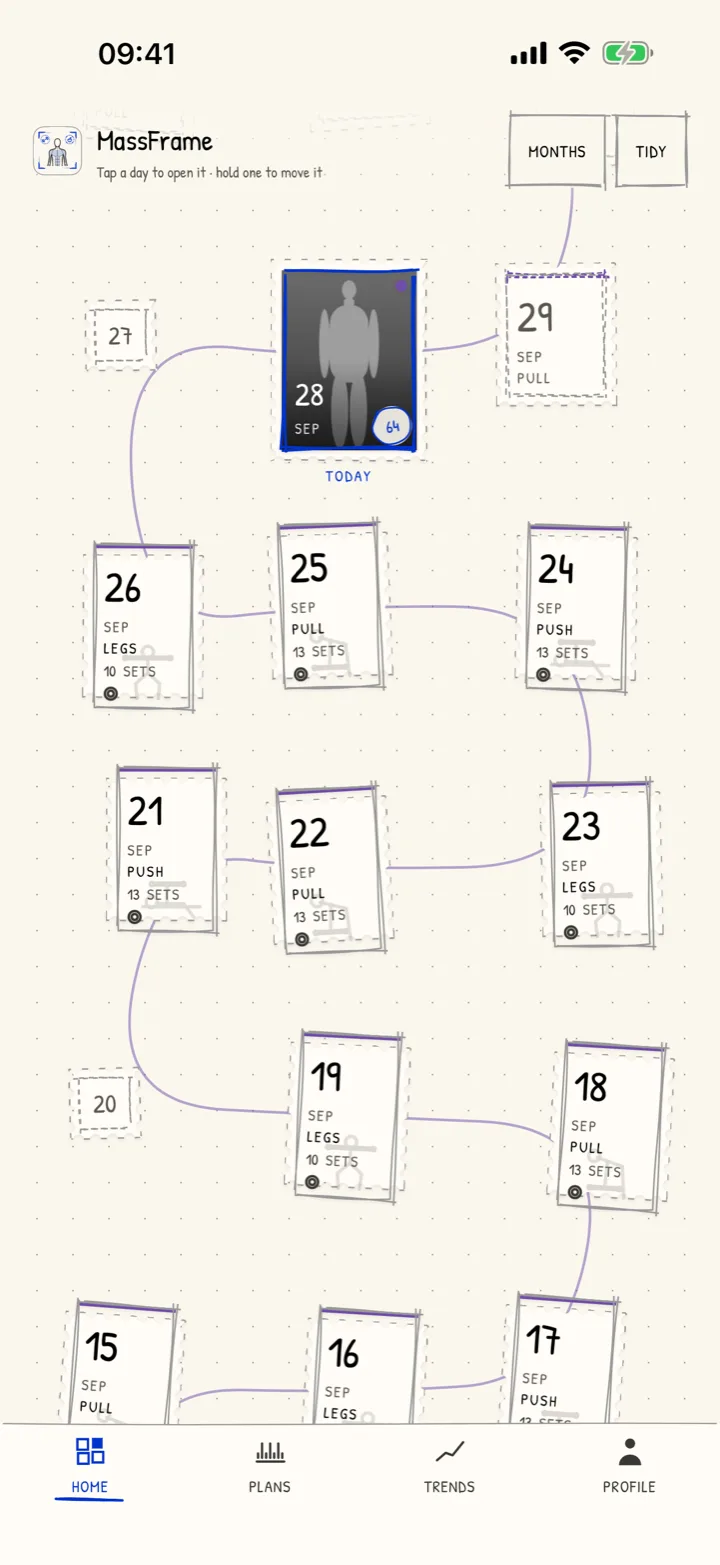
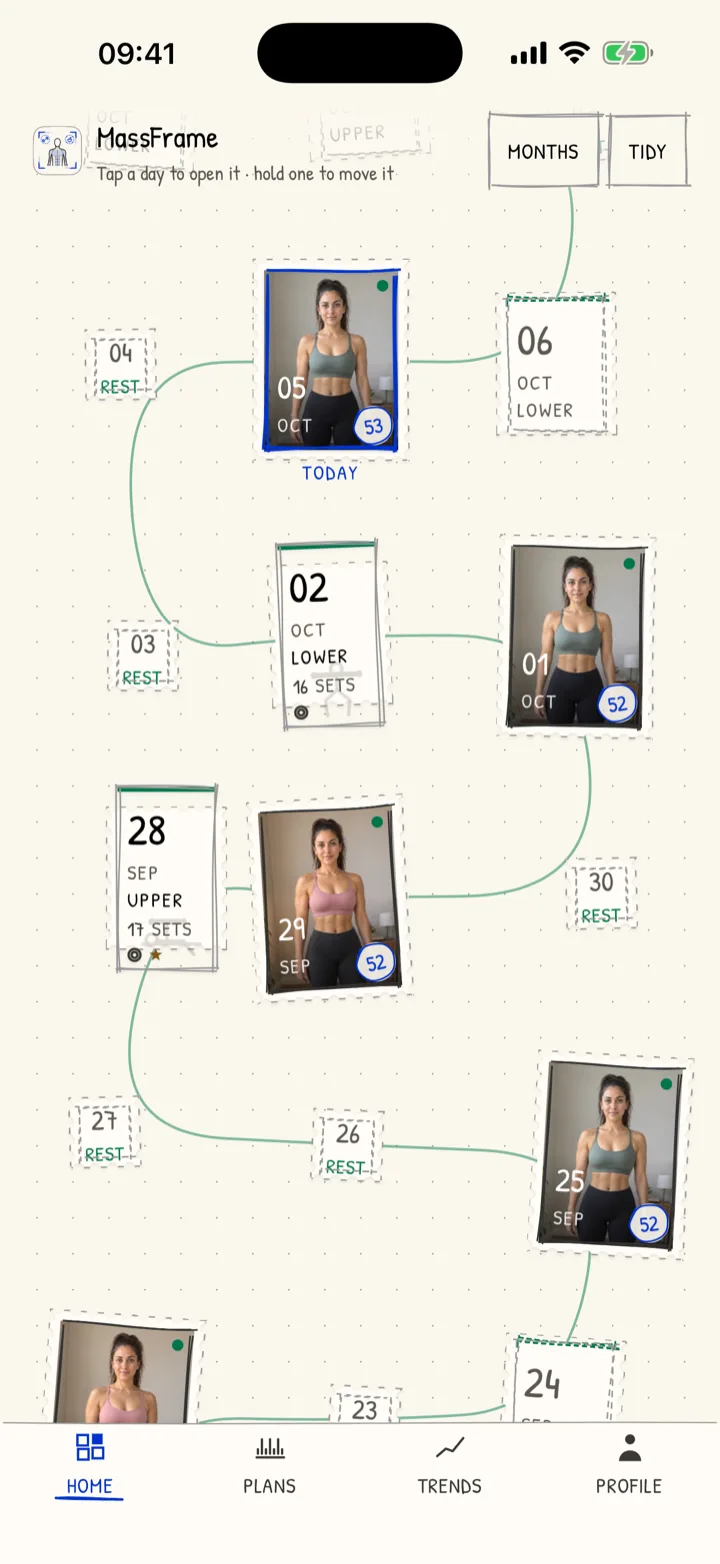
MassFrame's page shows the new screenshots: a progress report, a meal read and a twelve-week comparison in the hero, and the session, plans, meal, eating phase, report and projection under their pillars — from the screenshot kits' two people
Claude-Session: https://claude.ai/code/session_01VaRRCbouVYttxKKwqZJLpq

diff --git a/massframe/index.html b/massframe/index.html
@@ -97,13 +97,13 @@
 
           <div class="mf-fan" aria-label="Three screens from the app: a workout, a meal and a progress report">
             <figure class="print">
-              <img src="../assets/massframe-session.webp" width="720" height="1565" alt="A workout: each set with last time's numbers beside it, and a record stamped on the bench press." />
+              <img src="../assets/massframe-report.webp" width="720" height="1565" alt="A progress report: her check-in photo read into a muscle map, a score for each part, body fat and the band." />
             </figure>
             <figure class="print">
-              <img src="../assets/massframe-phase.webp" width="720" height="1565" alt="An eating phase: its calories, protein, fat and carbs, where each came from, and how they were worked out from your body." />
+              <img src="../assets/massframe-meal.webp" width="720" height="1565" alt="A meal photographed from above and read: its calories, protein, fat and carbs." />
             </figure>
             <figure class="print">
-              <img src="../assets/massframe-report.webp" width="720" height="1565" alt="A progress report: the body shaded by development, a score for each part, the band and body fat." />
+              <img src="../assets/massframe-compare.webp" width="720" height="1565" alt="Two check-ins twelve weeks apart, side by side, with what changed in each part, body fat, lean mass and weight." />
             </figure>
           </div>
         </section>
@@ -140,8 +140,8 @@
               </ul>
             </div>
             <div class="mf-pair">
-              <figure class="print" style="--tilt: 1.3deg"><img src="../assets/massframe-phase.webp" width="720" height="1565" loading="lazy" decoding="async" alt="An eating phase's page: its four numbers, where each came from, what we'd suggest and why, and how the phase has gone so far." /></figure>
-              <figure class="print" style="--tilt: -1deg"><img src="../assets/massframe-eating.webp" width="720" height="1565" loading="lazy" decoding="async" alt="Plans, eating side: the running phase with its daily calories and protein, and the week's days against them." /></figure>
+              <figure class="print" style="--tilt: 1.3deg"><img src="../assets/massframe-meal.webp" width="720" height="1565" loading="lazy" decoding="async" alt="A meal read from its photo: calories and macros, and where the calories come from." /></figure>
+              <figure class="print" style="--tilt: -1deg"><img src="../assets/massframe-phase.webp" width="720" height="1565" loading="lazy" decoding="async" alt="An eating phase: its daily calories, protein, fat and carbs, and how they were worked out from her body." /></figure>
             </div>
           </div>
 
@@ -157,7 +157,7 @@
             </div>
             <div class="mf-pair">
               <figure class="print" style="--tilt: -1.2deg"><img src="../assets/massframe-report.webp" width="720" height="1565" loading="lazy" decoding="async" alt="A progress report from one photo." /></figure>
-              <figure class="print" style="--tilt: 1.4deg"><img src="../assets/massframe-trends.webp" width="720" height="1565" loading="lazy" decoding="async" alt="Trends: the body's parts scored, body fat, lean mass and the bodyweight line." /></figure>
+              <figure class="print" style="--tilt: 1.4deg"><img src="../assets/massframe-projection.webp" width="720" height="1565" loading="lazy" decoding="async" alt="Her projection: the first check-in beside the body three months on, with weight, body fat and lean mass for each." /></figure>
             </div>
           </div>
         </section>
